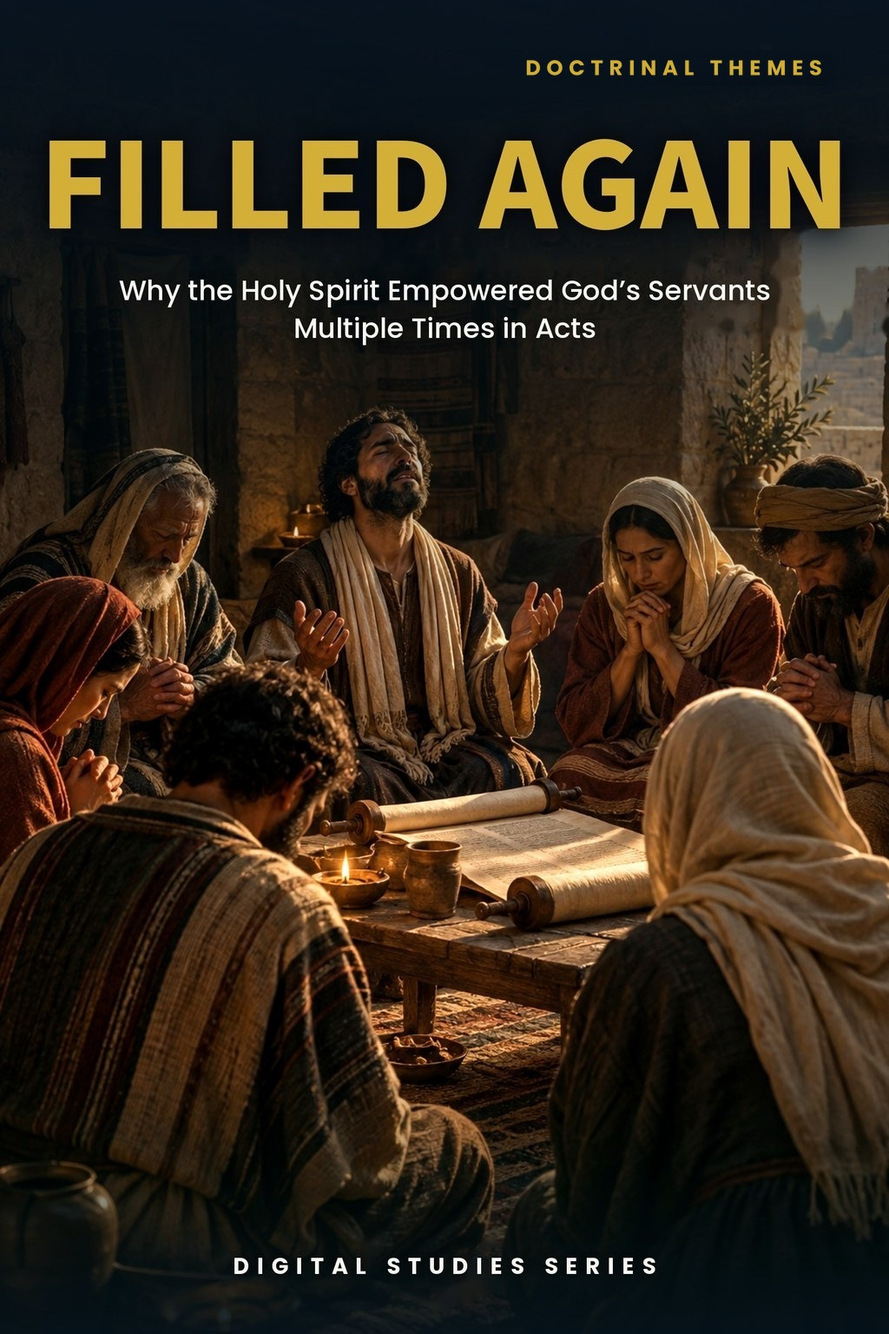
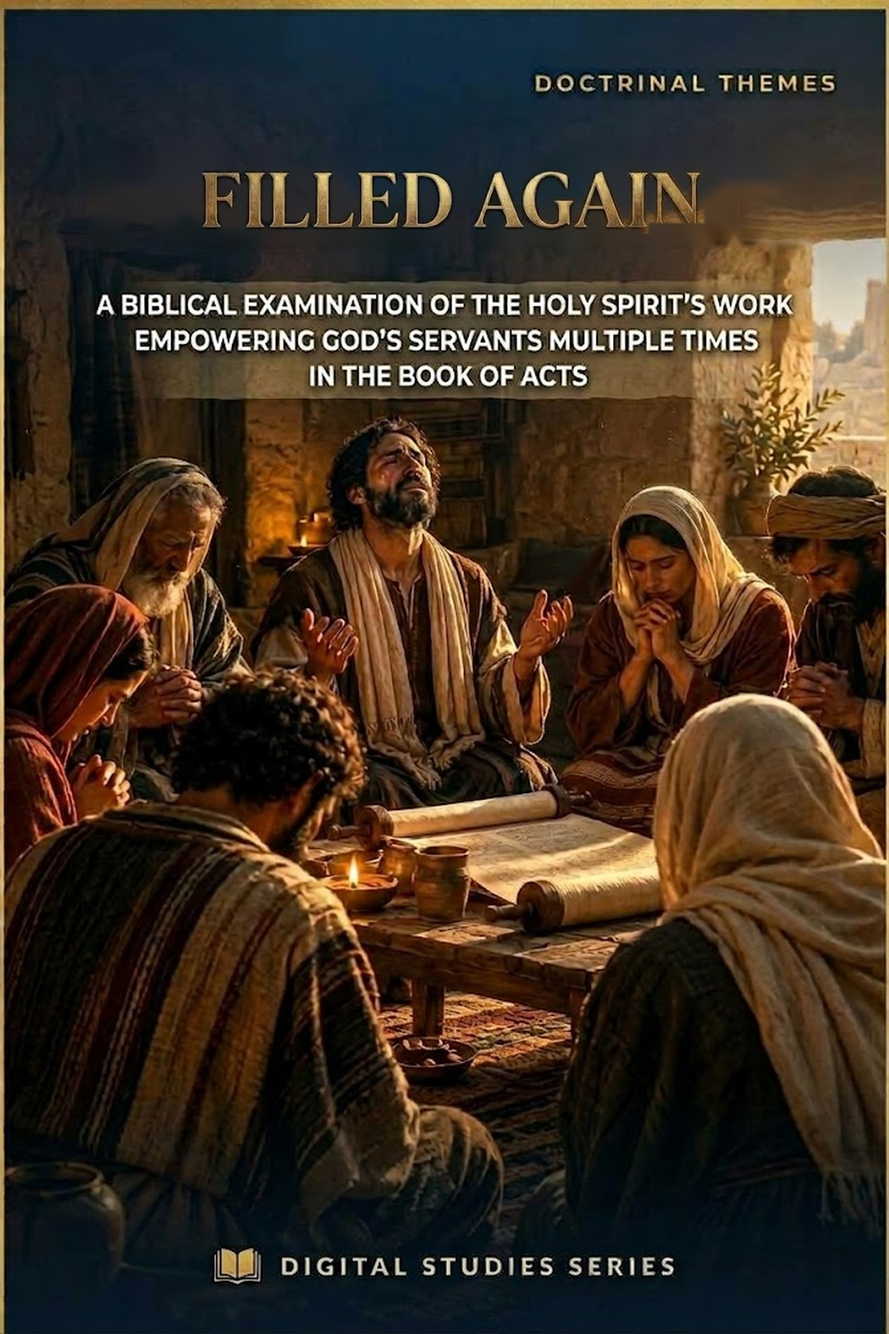
Study 34: Roboto/Standard rebuild, new cover, previews 2/3/5, 16 pages; PAM audit v1.63
Claude-Session: https://claude.ai/code/session_01TLNFW47XCW6YAMUxScR3v4

diff --git a/study-34-filled-again.html b/study-34-filled-again.html
@@ -3,13 +3,13 @@
 <html lang="en"><head><meta charset="utf-8"><meta name="viewport" content="width=device-width,initial-scale=1"><title>Filled Again | Zay-Marie Press</title><meta name="description" content="Why Acts records believers and apostolic servants being filled with the Holy Spirit more than once, with careful distinctions among filling, reception, indwelling, sealing, identification, and manifestation."><link rel="stylesheet" href="styles.css?v=20260921-4"><link rel="icon" type="image/png" href="assets/zay-marie-press-favicon.png"><style>
 .study-detail-page{background:#fff;color:#252525}.detail-hero{background:linear-gradient(135deg,#f8f5ec,#e3ece2);padding:58px 0}.detail-hero-grid{display:grid;grid-template-columns:minmax(250px,.72fr) minmax(0,1.28fr);gap:58px;align-items:center}.detail-cover{max-width:390px;margin:auto}.detail-cover img{display:block;width:100%;height:auto;box-shadow:0 14px 36px rgba(8,45,69,.18)}.detail-hero h1{font-size:clamp(2.7rem,5vw,4.7rem);line-height:1.02;margin:8px 0 10px;color:#143823}.detail-subtitle{font-family:Georgia,serif;font-size:1.35rem;font-weight:700;color:#082d45;margin:0 0 7px}.detail-kicker{font-family:Georgia,serif;font-style:italic;font-size:1.05rem;color:#4a4a44;margin:0 0 22px}.detail-copy{font-size:1.08rem;line-height:1.65;max-width:760px}.detail-buyline{display:flex;align-items:center;gap:18px;flex-wrap:wrap;margin-top:25px}.detail-price{font-family:Georgia,serif;font-size:2rem;font-weight:700;color:#143823}.detail-format,.preview-card .page-no{font-family:Arial,sans-serif;font-size:.76rem;font-weight:700;letter-spacing:.1em;text-transform:uppercase;color:#176b3a}.detail-button{display:inline-block;background:#176b3a;color:#fff;padding:13px 22px;font-family:Arial,sans-serif;font-size:.8rem;font-weight:700;letter-spacing:.07em;text-transform:uppercase}.detail-button.pending{opacity:.72;cursor:default}.detail-section{padding:66px 0}.detail-section.soft{background:#f6f7f2}.detail-section.cream{background:#faf8f2}.detail-section h2{color:#143823;margin:6px 0 18px;font-size:clamp(2rem,3.4vw,3rem)}.detail-section .lead{max-width:920px;font-size:1.1rem;line-height:1.62}.study-distinction{max-width:920px;margin-top:28px;margin-bottom:28px;padding:26px 28px;background:#fff;border:1px solid #d8d1bf;border-left:4px solid #b8871c}.study-distinction h3{margin:0 0 10px;color:#143823}.study-distinction p{margin:0 0 14px;line-height:1.62}.study-distinction a{font-family:Arial,sans-serif;font-weight:700;color:#176b3a;text-decoration:none}.study-points{display:grid;grid-template-columns:repeat(3,1fr);gap:18px;margin-top:28px;margin-bottom:28px}.study-point,.scripture-card,.preview-card,.include-item{background:#fff;border:1px solid var(--line);text-align:left}.study-point{border-top:3px solid #176b3a;padding:22px}.study-point h3{color:#143823;margin:0 0 8px;font-size:1.2rem}.study-point p,.scripture-card p,.preview-card p,.include-item p{margin:0;line-height:1.55}.scripture-grid{display:grid;grid-template-columns:repeat(4,1fr);gap:14px;margin-top:24px;margin-bottom:24px}.scripture-card{padding:22px 20px;color:#143823}.scripture-card h3{margin:0 0 9px;font-family:Georgia,serif;font-size:1rem;line-height:1.35}.scripture-card p{font-size:.94rem;color:#45453f}.excerpt{max-width:900px;margin:28px auto;border-left:4px solid #b8871c;padding:10px 0 10px 28px}.excerpt blockquote{font-family:Georgia,serif;font-size:clamp(1.45rem,2.5vw,2rem);line-height:1.45;color:#143823;margin:0 0 16px}.excerpt p{line-height:1.6;margin:0}.preview-grid{display:grid;grid-template-columns:repeat(2,1fr);gap:20px;margin-top:28px;margin-bottom:28px}.preview-card{padding:18px;min-height:210px;box-shadow:0 7px 20px rgba(20,40,25,.05)}.preview-image-link{display:block;margin:0 0 18px}.preview-image-link img{display:block;width:100%;height:auto;border:1px solid #d8d1bf;box-shadow:0 8px 22px rgba(20,40,25,.1);transition:transform .18s ease,box-shadow .18s ease}.preview-image-link:hover img{transform:translateY(-2px);box-shadow:0 11px 28px rgba(20,40,25,.16)}.preview-card h3{color:#143823;margin:8px 0 10px}.preview-instruction{margin:10px 0 0;font-family:Arial,sans-serif;font-size:.78rem;letter-spacing:.04em;color:#5b5b55}.includes-grid{display:grid;grid-template-columns:repeat(4,1fr);gap:14px;margin-top:26px}.include-item{padding:22px 20px;color:#143823}.include-item h3{margin:0 0 9px;font-family:Arial,sans-serif;font-size:.86rem;line-height:1.35;letter-spacing:.02em}.include-item p{font-size:.94rem;color:#45453f}.final-buy{background:#082d45;color:#fff;border-top:4px solid #b8871c;padding:42px 48px;display:grid;grid-template-columns:1fr auto;gap:36px;align-items:center}.final-buy .eyebrow,.final-buy h2,.final-buy .detail-price{color:#fff}.final-buy h2{margin:7px 0 6px}.final-buy p{margin:0}.final-offer{text-align:center}.back-link{display:inline-block;margin-top:18px;color:#143823;font-family:Arial,sans-serif;font-weight:700;text-decoration:none}.preview-lightbox{position:fixed;inset:0;z-index:10000;display:none;align-items:flex-start;justify-content:center;background:rgba(8,22,16,.88);padding:24px;overflow:auto}.preview-lightbox.open{display:flex}.preview-lightbox img{display:block;width:auto;height:auto;max-width:none;box-shadow:0 18px 55px rgba(0,0,0,.4);background:#fff}.preview-lightbox-close{position:fixed;top:18px;right:24px;z-index:10001;width:46px;height:46px;border:1px solid rgba(255,255,255,.65);border-radius:50%;background:rgba(0,0,0,.55);color:#fff;font:32px/1 Arial,sans-serif;cursor:pointer}@media(max-width:900px){.detail-hero-grid{grid-template-columns:1fr;gap:34px}.detail-cover{max-width:330px}.study-points{grid-template-columns:repeat(2,1fr)}.scripture-grid,.includes-grid{grid-template-columns:repeat(2,1fr)}.preview-grid,.final-buy{grid-template-columns:1fr}.final-offer{text-align:left}}@media(max-width:560px){.detail-hero{padding:42px 0}.detail-section{padding:50px 0}.study-points,.scripture-grid,.includes-grid{grid-template-columns:1fr}.final-buy{padding:32px 24px}.detail-buyline{align-items:flex-start;flex-direction:column;gap:8px}.preview-lightbox{padding:58px 10px 24px}.preview-lightbox img{width:100%;max-width:100%;height:auto}}</style></head><body class="study-detail-page">
 <header class="site-header"><div class="wrap nav"><a class="logo" href="index.html" aria-label="Zay-Marie Press home"><img src="assets/zay-marie-press-logo-hq.png" alt="Zay-Marie Press" width="420" height="238"></a><button class="menu-toggle" type="button" aria-expanded="false" aria-controls="primary-nav">MENU</button><nav aria-label="Primary navigation" class="primary-nav" id="primary-nav"><a href="index.html">HOME</a><a href="books.html">BOOKS</a><a href="series.html">SERIES</a><a class="active" aria-current="page" href="digital-studies.html">DIGITAL STUDIES</a><a href="biblical-hermeneutics-course.html">COURSE</a><a href="about.html">ABOUT</a><a href="resources.html">RESOURCES</a><a href="contact.html">CONTACT</a></nav></div></header><main>
-<section class="detail-hero"><div class="wrap detail-hero-grid"><div class="detail-cover"><picture><source srcset="assets/study-34-cover.webp" type="image/webp"><img src="assets/study-34-cover.jpg" alt="Filled Again cover"></picture></div><div><div class="eyebrow">BIBLICAL DOCTRINE · DIGITAL STUDY</div><h1>Filled Again</h1><p class="detail-subtitle">Why the Holy Spirit Empowered God’s Servants Multiple Times in Acts</p><p class="detail-kicker">A passage-controlled study of filling, reception, indwelling, sealing, manifestation, and Spirit-enabled service</p><p class="detail-copy">Why does Acts record believers and apostolic servants being filled with the Holy Spirit more than once? The repeated language does not describe repeated salvation, repeated indwelling, or spiritual failure. It records renewed enablement for particular acts of witness, proclamation, courage, wisdom, judgment, and service.</p><p class="detail-copy">Each occurrence is interpreted according to its named recipients, immediate purpose, revelatory setting, and programmatic assignment. The study preserves the distinction between Peter’s prophetic commission and Paul’s Mystery apostleship during the Acts overlap.</p><div class="detail-buyline"><span class="detail-price">$5.99</span><span class="detail-format">Digital PDF · 16 Pages</span><span class="detail-button pending" aria-disabled="true">Checkout Coming Soon</span></div></div></div></section>
+<section class="detail-hero"><div class="wrap detail-hero-grid"><div class="detail-cover"><picture><source srcset="assets/study-34-cover.webp" type="image/webp"><picture><source srcset="assets/study-34-cover.webp" type="image/webp"><img src="assets/study-34-cover.jpg" alt="Filled Again cover"></picture></picture></div><div><div class="eyebrow">STUDY 34 · DIGITAL STUDY</div><h1>Filled Again</h1><p class="detail-subtitle">Why the Holy Spirit Empowered God’s Servants Multiple Times in Acts</p><p class="detail-kicker">A passage-controlled study of filling, reception, indwelling, sealing, manifestation, and Spirit-enabled service</p><p class="detail-copy">Why does Acts record believers and apostolic servants being filled with the Holy Spirit more than once? The repeated language does not describe repeated salvation, repeated indwelling, or spiritual failure. It records renewed enablement for particular acts of witness, proclamation, courage, wisdom, judgment, and service.</p><p class="detail-copy">Each occurrence is interpreted according to its named recipients, immediate purpose, revelatory setting, and programmatic assignment. The study preserves the distinction between Peter’s prophetic commission and Paul’s Mystery apostleship during the Acts overlap.</p><div class="detail-buyline"><span class="detail-price">$5.99</span><span class="detail-format">Digital PDF · 16 Pages</span><span class="detail-button pending" aria-disabled="true">Checkout Coming Soon</span></div></div></div></section>
 <section class="detail-section"><div class="wrap"><div class="eyebrow">ABOUT THIS STUDY</div><h2>Repeated Filling Is Renewed Enablement</h2><p class="lead">Acts 2 and Acts 4 give the clearest evidence: the same prophetic company is filled more than once, first at Pentecost and later in answer to prayer for boldness. Nothing in the second event suggests another salvation or another permanent indwelling. The Spirit renews enablement for the assignment immediately before them.</p><p class="lead">Other passages require different labels. Some describe an abiding characterization, some the reception or manifestation of the Spirit among distinct groups, and some a particular act of apostolic judgment or witness. Careful interpretation begins by refusing to call every Spirit-related event a filling.</p><p class="lead">This is not a study of Peter’s original Pentecost promise, which Study 20 reads in its own audience and setting, nor of the general test for whether an Acts event obligates the Body today, which Study 38 supplies, nor of the Body’s own settled indwelling by the Spirit, which Study 44 distinguishes from any repeated filling. Its task is narrower: to show, from Acts 2 and Acts 4 themselves, that a second filling of the same praying company renews enablement for an immediate assignment rather than repeating salvation or indwelling.</p><div class="study-distinction"><h3>How These Studies Relate</h3><p>Study 34 explains why apostles could be filled again in Acts 4 without losing and regaining the Spirit.</p><p><a href="study-20-understanding-acts-2-38.html">Study 20 — Understanding Acts 2:38</a> Read Peter’s earlier Pentecost promise and his audience first; this distinguishes initial Spirit reception from the later renewed enablement recorded in Acts 4.</p><p><a href="study-38-why-acts-is-not-a-universal-experience-manual.html">Study 38 — Why Acts Is Not a Universal Experience Manual</a> Apply the Acts-reading test to repeated filling; it clarifies what a historical event teaches without making each occurrence a universal required sequence.</p><p><a href="study-44-walking-in-the-spirit.html">Study 44 — Walking in the Spirit</a> Distinguish these renewed, repeated Acts-era fillings from the Body's settled, once-for-all indwelling ministry of the Spirit that this study examines.</p><p class="connection-guide-link"><a href="study-connections.html#study-34">Explore the full connection guide for Study 34 →</a></p></div></div></section>
-<section class="detail-section soft"><div class="wrap"><div class="eyebrow">WHAT YOU’LL STUDY</div><h2>Distinguish the Spirit’s Ministries Before Applying Them</h2><div class="study-points"><div class="study-point"><h3>Prophetic Promise</h3><p>Trace the promised outpouring behind Pentecost without importing later Pauline doctrine into the prophetic setting.</p></div><div class="study-point"><h3>Receiving and Filling</h3><p>Separate receiving the Spirit from renewed enablement for a named act of witness or service.</p></div><div class="study-point"><h3>Fullness as Character</h3><p>Recognize when “full of the Holy Spirit” describes an abiding qualification or spiritual characterization.</p></div><div class="study-point"><h3>Identification and Sealing</h3><p>Distinguish Spirit baptism, indwelling, and Pauline sealing from narrative manifestations in Acts.</p></div><div class="study-point"><h3>Signs During the Overlap</h3><p>Place tongues, visions, and apostolic signs within their immediate setting and assigned apostolic line.</p></div><div class="study-point"><h3>Present Application</h3><p>Read Ephesians 5:18 as an ongoing command for a Spirit-governed walk grounded in the Body’s accomplished standing.</p></div></div></div></section>
+<section class="detail-section soft"><div class="wrap"><div class="eyebrow">WHAT YOU’LL STUDY</div><h2>Distinguish the Spirit’s Ministries Before Applying Them</h2><div class="study-points"><div class="study-point"><h3>Prophetic Promise</h3><p>Trace the promised outpouring behind Pentecost without importing later Pauline doctrine into the prophetic setting.</p></div><div class="study-point"><h3>Receiving and Filling</h3><p>Separate receiving the Spirit from renewed enablement for a named act of witness or service.</p></div><div class="study-point"><h3>Fullness as Character</h3><p>Recognize when “full of the Holy Spirit” describes an abiding qualification or spiritual characterization.</p></div><div class="study-point"><h3>Identification and Sealing</h3><p>Distinguish Spirit baptism, indwelling, and Pauline sealing from narrative manifestations in Acts.</p></div><div class="study-point"><h3>Signs During the Overlap</h3><p>Place tongues, visions, and apostolic signs within their immediate setting and assigned apostolic line.</p></div><div class="study-point"><h3>Present Application</h3><p>Trace how Ephesians 1:13–14, 4:30, and 5:18 state the Body’s standing and the command to be filled, and how the two relate.</p></div></div></div></section>
 <section class="detail-section cream"><div class="wrap"><div class="eyebrow">KEY SCRIPTURES</div><h2>Follow Each Passage by Recipient, Purpose, and Setting</h2><div class="scripture-grid"><div class="scripture-card"><h3>Acts 2:4</h3><p>The prophetic company is filled and speaks in other tongues at Pentecost.</p></div><div class="scripture-card"><h3>Acts 4:8, 31</h3><p>Peter speaks before the rulers, and the gathered company receives renewed boldness.</p></div><div class="scripture-card"><h3>Acts 6:3, 5; 7:55</h3><p>Stephen’s fullness marks qualification, wisdom, witness, and vision.</p></div><div class="scripture-card"><h3>Acts 9:17</h3><p>Saul is filled in connection with his healing and Pauline commission.</p></div><div class="scripture-card"><h3>Acts 13:9</h3><p>Paul confronts Elymas under Spirit-enabled apostolic judgment.</p></div><div class="scripture-card"><h3>Acts 13:52</h3><p>The disciples are filled with joy and with the Holy Spirit amid opposition.</p></div><div class="scripture-card"><h3>Acts 8, 10, 19</h3><p>Reception and manifestation passages involving distinct groups and settings.</p></div><div class="scripture-card"><h3>Ephesians 5:18</h3><p>The Body is commanded to pursue an ongoing Spirit-governed walk.</p></div></div></div></section>
 <section class="detail-section"><div class="wrap"><div class="eyebrow">FROM THE STUDY</div><h2>The Text Must Name the Spirit’s Ministry</h2><div class="excerpt"><blockquote>“Repeated filling in Acts is renewed enablement for a particular assignment—not repeated salvation, indwelling, or sealing.”</blockquote><p>Recipients, immediate purpose, revelatory setting, and programmatic assignment keep narrative description from being turned into a universal experience manual.</p></div></div></section>
-<section class="detail-section soft"><div class="wrap"><div class="eyebrow">A LOOK INSIDE</div><h2>Preview the Study Before You Purchase</h2><p class="preview-instruction">Click any page to enlarge it for reading.</p><div class="preview-grid"><div class="preview-card"><a class="preview-image-link" data-preview-lightbox href="assets/study-34-page-3.jpg"><img src="assets/study-34-page-3.jpg" alt="Study 34 page 3 learning outcomes and Study Goal"></a><div class="page-no">Page 3</div><h3>Learning Outcomes and Study Goal</h3><p>Begin with the distinctions that govern every Spirit passage and the interpretive controls used throughout.</p></div><div class="preview-card"><a class="preview-image-link" data-preview-lightbox href="assets/study-34-page-7.jpg"><img src="assets/study-34-page-7.jpg" alt="Study 34 page 7 Acts 4 repeated filling and Stephen’s fullness"></a><div class="page-no">Page 7</div><h3>Acts 4 and Stephen</h3><p>See repeated filling for bold proclamation alongside fullness as qualification, wisdom, witness, and vision.</p></div><div class="preview-card"><a class="preview-image-link" data-preview-lightbox href="assets/study-34-page-10.jpg"><img src="assets/study-34-page-10.jpg" alt="Study 34 page 10 comparison of Spirit reception passages"></a><div class="page-no">Page 10</div><h3>Reception Passages Compared</h3><p>Distinguish Acts 8, Acts 10, and Acts 19 from repeated fillings of the Twelve.</p></div><div class="preview-card"><a class="preview-image-link" data-preview-lightbox href="assets/study-34-page-13.jpg"><img src="assets/study-34-page-13.jpg" alt="Study 34 page 13 present application and study summary"></a><div class="page-no">Page 13</div><h3>Present Application and Summary</h3><p>Apply Ephesians 5:18 responsibly while preserving the Body’s accomplished indwelling, identification, and sealing.</p></div></div></div></section>
+<section class="detail-section soft"><div class="wrap"><div class="eyebrow">A LOOK INSIDE</div><h2>Preview the Study Before You Purchase</h2><p class="preview-instruction">Click any page to enlarge it for reading.</p><div class="preview-grid"><div class="preview-card"><a class="preview-image-link" data-preview-lightbox href="assets/study-34-page-2.jpg"><img src="assets/study-34-page-2.jpg" alt="Study 34 interior preview — page 2, table of contents"></a><div class="page-no">Page 2</div><h3>Table of Contents</h3><p>See how the study moves from the interpretive problem through each Acts passage to the Body’s present standing.</p></div><div class="preview-card"><a class="preview-image-link" data-preview-lightbox href="assets/study-34-page-3.jpg"><img src="assets/study-34-page-3.jpg" alt="Study 34 interior preview — page 3, What You Will Learn and Study Goal"></a><div class="page-no">Page 3</div><h3>What You Will Learn</h3><p>Begin with the skills you will practice in distinguishing each Spirit-related event by its own wording.</p></div><div class="preview-card"><a class="preview-image-link" data-preview-lightbox href="assets/study-34-page-5.jpg"><img src="assets/study-34-page-5.jpg" alt="Study 34 interior preview — page 5, the vocabulary of the Spirit’s ministry"></a><div class="page-no">Page 5</div><h3>The Vocabulary of the Spirit’s Ministry</h3><p>Set the terms side by side, each with the control that keeps it from being confused with the others.</p></div></div></div></section>
 <section class="detail-section"><div class="wrap"><div class="eyebrow">WHAT’S INCLUDED</div><h2>A Focused Study Built for<br>Doctrinal Precision and Responsible Application</h2><div class="includes-grid"><div class="include-item"><h3>16-Page Biblical Study</h3><p>A substantive treatment of repeated filling and the Spirit’s distinct ministries in Acts.</p></div><div class="include-item"><h3>Thirteen Teaching Sections</h3><p>Move from vocabulary and prophetic background through the Acts overlap to present application.</p></div><div class="include-item"><h3>Passage Classification</h3><p>Identify momentary filling, abiding characterization, reception, manifestation, and other Spirit ministries.</p></div><div class="include-item"><h3>High-Contrast Tables</h3><p>Compare recipients, settings, purposes, apostolic lines, and warranted conclusions clearly.</p></div><div class="include-item"><h3>Scripture-Tracing Exercise</h3><p>Work through the principal filling, reception, manifestation, sealing, and application passages.</p></div><div class="include-item"><h3>Review Questions</h3><p>Test your ability to distinguish narrative events from present governing doctrine.</p></div><div class="include-item"><h3>Teaching Outline</h3><p>Use a ready framework for teaching repeated filling without collapsing distinct ministries.</p></div><div class="include-item"><h3>Guided Further Study</h3><p>Grouped passages support continued study of prophecy, the overlap, and Pauline doctrine.</p></div></div></div></section>
-<section class="detail-section cream"><div class="wrap"><div class="final-buy"><div><div class="eyebrow">BIBLICAL DOCTRINE · DIGITAL STUDY</div><h2>Filled Again</h2><p>Digital PDF · 16 Pages · For personal use</p></div><div class="final-offer"><div class="detail-price">$5.99</div><span class="detail-button pending" aria-disabled="true">Checkout Coming Soon</span></div></div><a class="back-link" href="digital-studies.html">← Back to All Digital Studies</a></div></section><section class="study-method-course-bridge"><div class="wrap"><div class="study-method-course-panel"><div><div class="eyebrow">BUILD THE INTERPRETIVE METHOD</div><h2>Want More Than a Focused Study?</h2><p>Digital Studies examine particular biblical subjects and difficult passages. The 40-lesson Biblical Hermeneutics course teaches a complete, repeatable method for establishing meaning in context, determining proper assignment, and making responsible application.</p></div><a class="btn btn-primary" href="biblical-hermeneutics-course.html">BIBLICAL HERMENEUTICS COURSE</a></div></div></section></main>
+<section class="detail-section cream"><div class="wrap"><div class="final-buy"><div><div class="eyebrow">STUDY 34 · DIGITAL STUDY</div><h2>Filled Again</h2><p>Digital PDF · 16 Pages · For personal use</p></div><div class="final-offer"><div class="detail-price">$5.99</div><span class="detail-button pending" aria-disabled="true">Checkout Coming Soon</span></div></div><a class="back-link" href="digital-studies.html">← Back to All Digital Studies</a></div></section><section class="study-method-course-bridge"><div class="wrap"><div class="study-method-course-panel"><div><div class="eyebrow">BUILD THE INTERPRETIVE METHOD</div><h2>Want More Than a Focused Study?</h2><p>Digital Studies examine particular biblical subjects and difficult passages. The 40-lesson Biblical Hermeneutics course teaches a complete, repeatable method for establishing meaning in context, determining proper assignment, and making responsible application.</p></div><a class="btn btn-primary" href="biblical-hermeneutics-course.html">BIBLICAL HERMENEUTICS COURSE</a></div></div></section></main>
 <div class="preview-lightbox" id="preview-lightbox" role="dialog" aria-modal="true" aria-label="Expanded study preview"><button class="preview-lightbox-close" type="button" aria-label="Close preview">×</button><img id="preview-lightbox-image" alt=""></div><footer class="site-footer"><div class="wrap footer-grid"><div class="footer-about"><h3>Zay-Marie Press</h3><p class="footer-tagline"><em>Where the Bible Means What It Says.</em></p><p>Zay-Marie Press is a Christian theological publisher dedicated to producing doctrinally precise, carefully structured biblical resources that equip pastors, teachers, and serious students with clarity, depth, and Scripture-anchored truth.</p><p><a href="https://zaymariepress.com">zaymariepress.com</a><br><a href="mailto:info@zaymariepress.com">info@zaymariepress.com</a></p></div><div class="footer-column"><h3>Explore</h3><div class="footer-links-stacked"><a href="books.html">Books</a><br><a href="series.html">Series</a><br><a href="biblical-hermeneutics-course.html">Course</a><br><a href="digital-studies.html">Digital Studies</a><br><a href="resources.html">Resources</a><br><a href="bible-book-summaries.html">Bible Book Summaries</a><br><a href="doctrinal-packets.html">Doctrinal Packets</a><br><a href="historical-drift.html">Historical Drift</a><br><a href="about.html">About</a><br><a href="contact.html">Contact</a></div></div><div class="footer-column"><h3>Reader Support</h3><div class="footer-links-stacked"><a href="reader-support.html#faq">FAQ</a><br><a href="reader-support.html#shipping-returns">Shipping &amp; Returns</a><br><a href="reader-support.html#digital-downloads">Digital Downloads</a><br><a href="reader-support.html#contact-support">Contact Support</a></div></div><div class="footer-column"><h3>Acts Overlap</h3><p><strong>Acts Overlap Theology Series</strong></p><p><em>Two Distinct Streams. One Overlap.</em></p><p><a href="series.html">Series Overview</a></p></div></div><div class="wrap footer-bottom">© 2026 Zay-Marie Press. All rights reserved.</div></footer><script src="site.js"></script><script>const lightbox=document.getElementById('preview-lightbox'),lightboxImage=document.getElementById('preview-lightbox-image'),closeLightbox=()=>{lightbox.classList.remove('open');lightboxImage.src='';};document.querySelectorAll('[data-preview-lightbox]').forEach(link=>link.addEventListener('click',event=>{event.preventDefault();lightboxImage.src=link.href;lightboxImage.alt=link.querySelector('img').alt;lightbox.classList.add('open');}));document.querySelector('.preview-lightbox-close').addEventListener('click',closeLightbox);lightbox.addEventListener('click',event=>{if(event.target===lightbox)closeLightbox();});document.addEventListener('keydown',event=>{if(event.key==='Escape')closeLightbox();});</script><script type="module" src="https://static.cloudflareinsights.com/beacon.min.js/v31edd6df95cf4e85bb4c19e7a9bdbcba1788362987495" integrity="sha512-iIg7k2xntmwu6/uSb5tpc/hySgZc4eoL31yB29W6tJFo2akwjPWcEqnCEdJvGexCL0KEQwVYv5BlowfhVz26hg==" data-cf-beacon='{"version":"2024.11.0","token":"4badd691d9c04f819c55899bff00fd5c","r":1,"spa":2}' crossorigin="anonymous"></script>
 </body></html>

diff --git a/controlling-documents/Digital_Studies_PAM_Audit_v1.63.md b/controlling-documents/Digital_Studies_PAM_Audit_v1.63.md
@@ -1,4 +1,4 @@
-# Digital Studies vs. PAM Audit — v1.62
+# Digital Studies vs. PAM Audit — v1.63
 
 Working tracker and instructions for checking the Digital Studies against the Program Assignment Manual (PAM), §XIX of `Framework_Control_Document_Acts_Overlap.docx`, including its "Section 4 — Publisher Rulings". Same `_vX.Y` convention as the other controlling documents: update the status table and changelog as the audit proceeds, bump the version, and rename the file to match.
 
@@ -292,3 +292,4 @@ Study 15 PDF not yet supplied. Typography: none of Studies 2, 3, 6, 8 is in EB G
 - v1.60 (2026-10-01): Study 31 (The Judgments of Scripture) read in full against the PAM and Framework from the publisher's DOCX (about 17 interior pages in source): clear, no conflicts. It matches the Framework's judgment table (Israel: prophetic accountability + Kingdom entrance; Body: Judgment Seat of Christ, reward evaluation); Acts 28 is "national judicial suspension, not abolition" (Acts Overlap, PAM Rule 4); 1 Cor 11 is Body practice; 1 Cor 6:3 reported as explicit without invented detail; Matthew 24 is Israel's Prophecy setting with no "one taken, one left" claims. The Framework and PAM are silent on Matthew 25:31–46 and Revelation 19–22, so the publisher approved an anchoring sentence (PAM Rule 1), added at the end of the paragraph after Interpretive Control in the Introduction, word for word: "The Framework assigns Israel's prophetic accountability and the Body's Judgment Seat; the placement of Matthew 25 and Revelation 19–22 in this study is an interpretive reading drawn from each passage's own markers, not a PAM assignment." The publisher also approved a clarifying sentence in §8 directly after the "belong to the mysteries of the Kingdom" sentence: "The 'mysteries of the kingdom' (Matthew 13:11) are Kingdom-parable content in Matthew's prophetic setting; they are not the Mystery revealed through Paul." Rebuilt to the Master Standard (Roboto, five boxed callouts: Study Goal, Interpretive Control, Gospel Control, Judgment Seat Control, Chronology Control; Classification Rule, Pastoral Control, Program Control, Evidence Control and Synthesis Rule became bold run-ins; flat one-entry-per-heading TOC; Central Classification Questions moved into §1; Pastoral Control table cleaned; closing Final Synthesis box became a Final Synthesis heading and paragraph; typed numerals removed). §17 rewrites: What You Will Learn points 5–11 and Study Outline items 3, 4, 5, 7 and 9; website "What You'll Study" Programmatic Setting point matched. Length 19 pages including cover (18 interior; ten tables), kept at 19 at the publisher's direction under the page-count exception rule; site.js 31:17 to 31:19. Cover: the publisher's finished cover image used as supplied (DOCTRINAL THEMES label, no badge; trimmed 6 px to 2:3, enlarged to 1600×2400) with "THE JUDGMENTS" reduced 30% at the publisher's direction (gold line rebuilt on the same navy gradient). Hero eyebrow changed from the retired "BIBLICAL DOCTRINE · DIGITAL STUDY" to "STUDY 31 · DIGITAL STUDY". Previews: pages 2, 3 and 5 (old pages 4, 8 and 13 removed). Category: Doctrinal Themes.
 - v1.61 (2026-10-01): Study 32 (Covenant Theology and Dispensational Theology) read in full against the PAM and Framework from the publisher's DOCX (about 13 interior pages in source): clear, no conflicts. Section 10 (Acts Overlap Theology) matches the Framework and PAM Rule 4 (Prophecy before Acts 9, concurrent Acts 9–28, Acts 28 national judicial suspension not abolition, local turns in Acts 13/18/19 not national suspension, non-transfer). Three clarifying sentences approved and added: Hebrews (not assigned as a book; read interpretively within Israel's Prophecy line, covenant warnings not converted into warnings to the Body); Romans 11:25 (Prophecy Program content occurring during the Mystery administration); Revelation 20–22 (text only, not assigned as a book). Spoiler fix: What You Will Learn bullet 3 rewritten as a process line; website What You'll Study point 6 and the Acts 9 and 28 Key Scripture card reworded to match (§17). Seven callouts reduced to five boxed. Rebuilt to the Roboto/Standard format: decorative labels removed, "Continued" headings merged, flat TOC, Roman-numeral outline to bullets, two neutral KJV tables added; 15 interior pages plus cover (16 total, site.js 32:16). Cover: publisher-supplied image, FOUNDATIONS label, title reduced 25% by re-lettering (the cover reads "Dispensational & Covenant Theology", the study title is unchanged). Previews: pages 2, 3 and 5 (replaces four prior previews). Hero eyebrow changed from BIBLICAL DOCTRINE to STUDY 32 · DIGITAL STUDY. Pushed after the publisher's approval.
 - v1.62 (2026-10-01): Study 33 (The Crowns of Scripture) read in full against the PAM and Framework from the publisher's DOCX (about 12 interior pages in source): clear, no conflicts. The Judgment Seat passages (Romans 14:10–12; 1 Cor 3:8–15; 4:1–5; 2 Cor 5:6–10) match the PAM's 2 Cor 5 judgment-seat assignment (Mystery Program, applies to the Body) and the Framework's judgment table; Israel's prophetic accountability matches the table; the non-transfer callouts match PAM Rule 4. The PAM is silent on James, 1 Peter, 2 John and Revelation as books and on Philippians, 1 Thessalonians and 2 Timothy individually, so an anchoring sentence was added at the end of the Introduction (placement of each crown passage is an interpretive reading from the passage's own markers, not a PAM assignment). The table cell "Christ's coming for the Body" (1 Thess 2:19–20) was changed to "Christ's coming, in Paul's Thessalonian setting". Spoiler fix (§17): What You Will Learn bullets 2, 3 and 4 rewritten as process lines; the website What You'll Study last point reworded. Seven callouts reduced to five boxed. Rebuilt to the Roboto/Standard format; two neutral KJV tables added (Scripture-Tracing and Guided Further Study); 15 interior pages plus cover (16 total, site.js 33:16). Cover: new publisher-supplied artwork (683×1024, scaled up), DOCTRINAL THEMES label, series lettering with the title reduced 25%. Previews: pages 2, 3 and 5 (replace four prior previews). Hero eyebrow changed from BIBLICAL DOCTRINE to STUDY 33 · DIGITAL STUDY. Pushed after the publisher's approval.
+- v1.63 (2026-10-01): Study 34 (Filled Again) read in full against the PAM and Framework from the publisher's DOCX (about 15 interior pages in source): clear, no conflicts. Acts 1–8 as Prophecy (Pentecost, Acts 8), Acts 10 Cornelius as a Prophecy Program event inside the Overlap, Acts 9 as the start of the Mystery with Paul, Acts 9–28 concurrent, Paul's signs not making him a Prophecy apostle, Spirit baptism into the Body and Ephesians sealing as Mystery content (Eph 4:5 ruling), and no "Acts 2 = Church birthday" (PAM Rule 4) all match. One wording fix approved: the vocabulary-table cell "Romans–Philemon govern the Body" now carves out Romans 11:25 and 2 Corinthians 3:6, which are read as the Framework assigns them. Spoiler fixes (§17): the Study Goal's last sentence, the What You Will Learn intro and bullets 1, 3, 4, 5, 6 and 7 rewritten as process lines; website What You'll Study point 6 reworded (point 1 left as it already states a discipline). Seven callouts reduced to five boxed. Rebuilt to the Roboto/Standard format: temporary title page and decorative labels removed, What You Will Learn and Study Outline out of the TOC, typed numerals removed, Teaching Outline as bullets; one neutral KJV table added to the Scripture-Tracing section; 15 interior pages plus cover (16 total, site.js 34:16). Cover: publisher-supplied finished cover (671×1024, stretched about 1.7% to 2:3 to keep its frame, scaled up), DOCTRINAL THEMES label, title reduced 30% (background behind the old lettering rebuilt; slight softness beside the final N). The cover subtitle ("A Biblical Examination of the Holy Spirit's Work Empowering God's Servants Multiple Times in the Book of Acts") differs from the study and website subtitle; left unchanged per the publisher. Previews: pages 2, 3 and 5 (replace three prior previews). Hero eyebrow changed from BIBLICAL DOCTRINE to STUDY 34 · DIGITAL STUDY. Hero copy and the From the Study quote on the website still state the conclusion; outside the §17 scope, left unchanged. Pushed after the publisher's approval.
